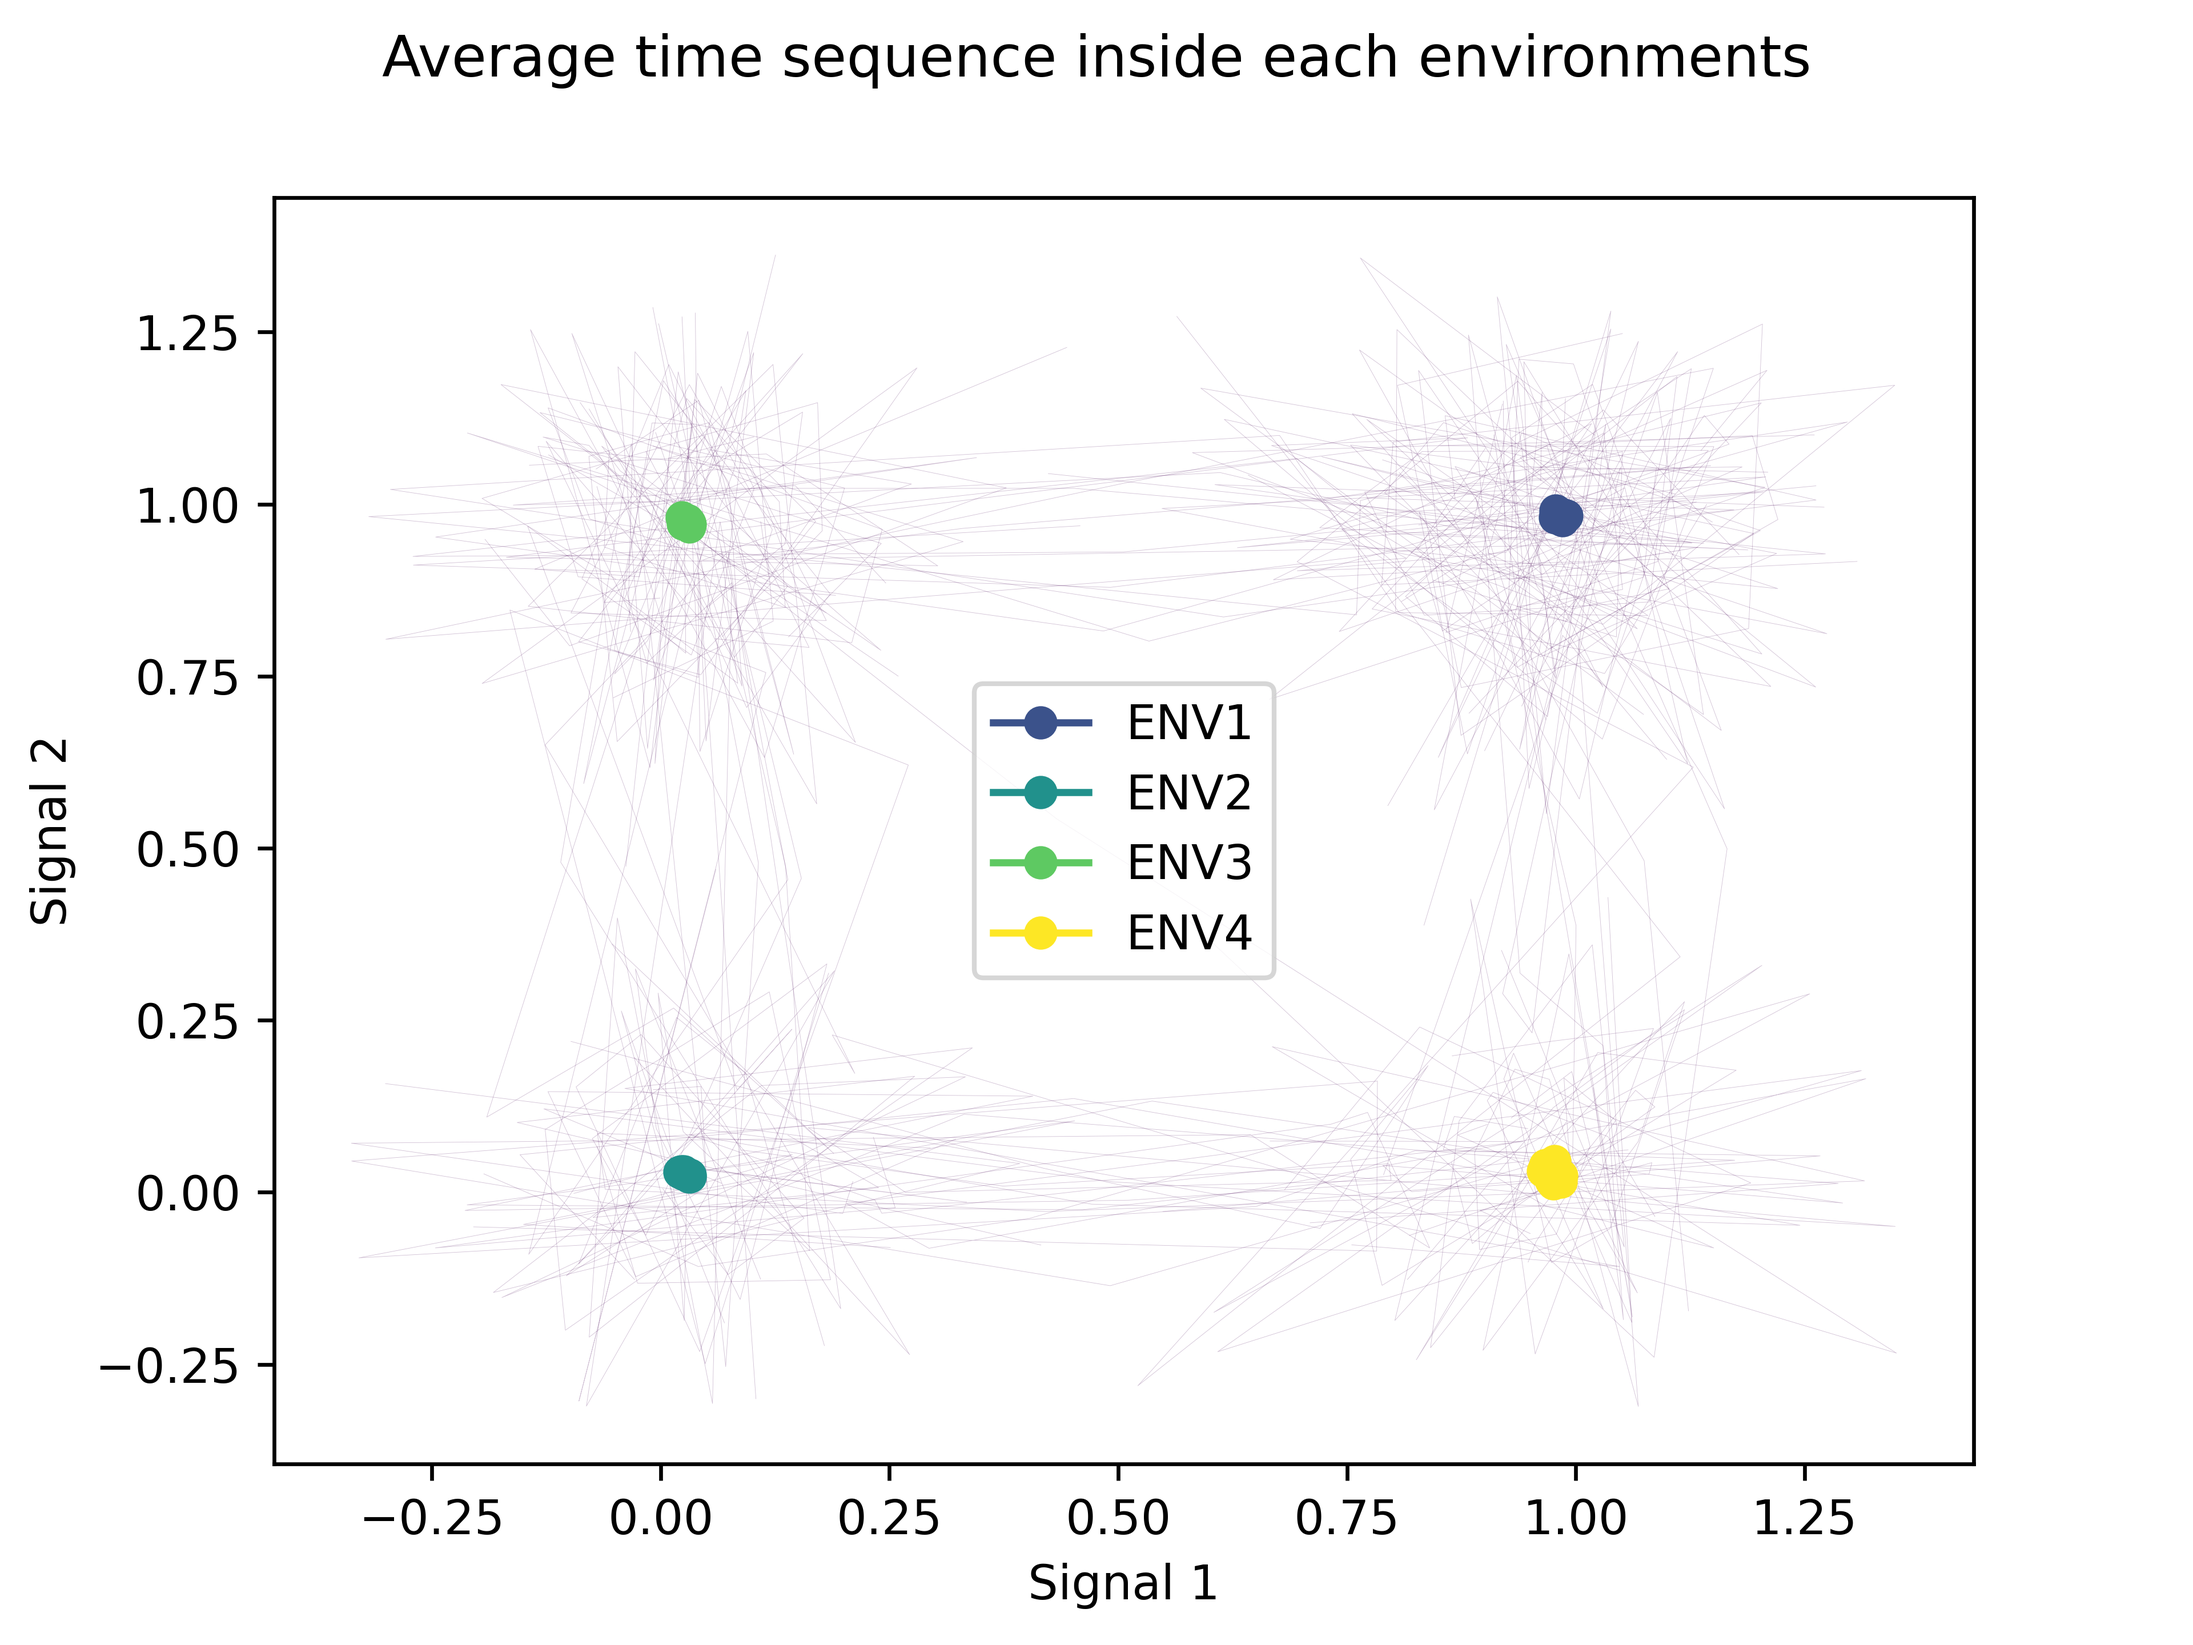
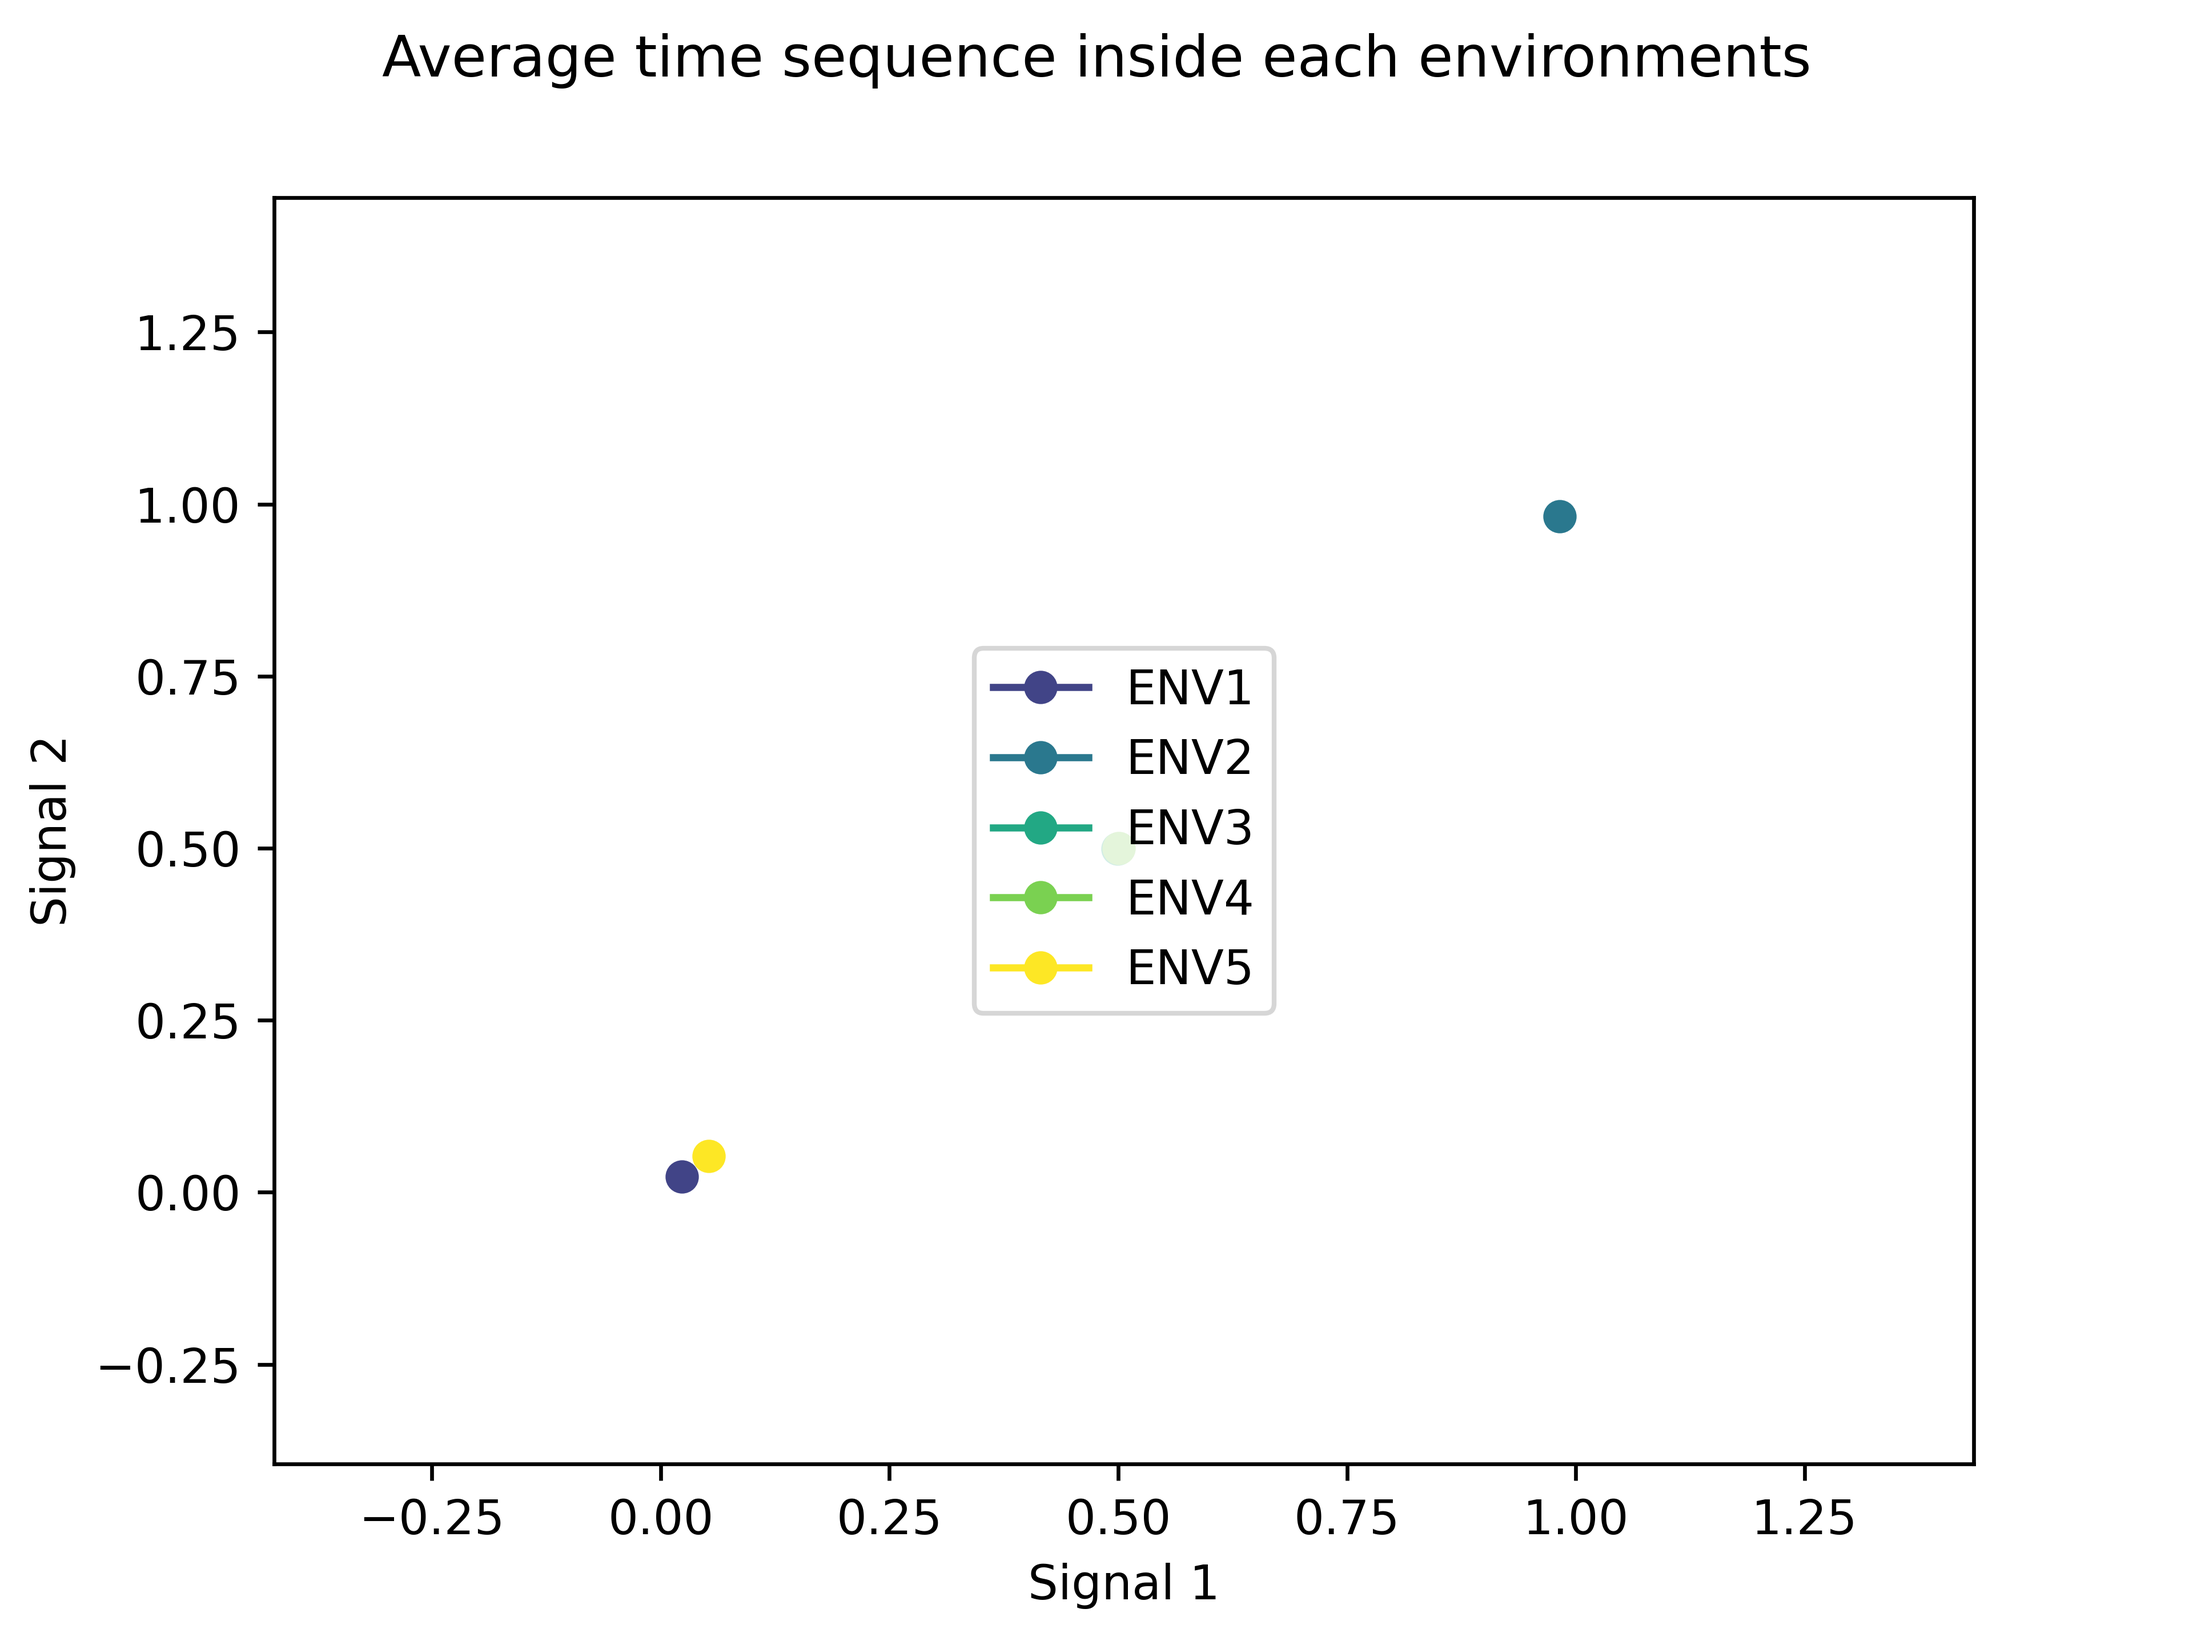
Examples updated; setting nos = 3.0 by default.

diff --git a/examples/example_script_multi.py b/examples/example_script_multi.py
@@ -25,13 +25,13 @@ path_to_input = "onion_example_files/data/multivariate_time-series.npy"
 
 ### Load the input data - it's an array of shape
 ### (n_dims, n_particles, n_frames)
-input_data = np.load(path_to_input)
-n_dims, n_particles, n_frames = input_data.shape
+input_data = np.load(path_to_input).transpose(1, 2, 0)
+n_particles, n_frames, n_dims = input_data.shape
 
 ### CLUSTERING WITH A SINGLE TIME RESOLUTION ###
 ### Chose the time resolution --> the length of the windows in which the
 ### time-series will be divided
-delta_t = 10
+delta_t = 20
 bins = 25  # For mutlivariate clustering, setting BINS is often important
 
 ### onion_multi() returns the list of states and the label for each
@@ -42,7 +42,7 @@ state_list, labels = onion_multi(input_data, delta_t, bins=bins)
 output_path = Path("output_multi")
 plot_output_multi(output_path / "Fig1.png", input_data, state_list, labels)
 plot_one_trj_multi(output_path / "Fig2.png", 0, input_data, labels)
-plot_medoids_multi(output_path / "Fig3.png", input_data, labels)
+# plot_medoids_multi(output_path / "Fig3.png", input_data, labels)
 plot_state_populations(output_path / "Fig4.png", labels)
 plot_sankey(output_path / "Fig5.png", labels, [100, 200, 300, 400])
 
@@ -50,10 +50,10 @@ plot_sankey(output_path / "Fig5.png", labels, [100, 200, 300, 400])
 delta_t_list = np.geomspace(3, n_frames, 20, dtype=int)
 
 tra = np.zeros((delta_t_list.size, 3))  # List of number of states and
-# ENV0 population for each tau_window
-pop_list = []  # List of the states' population for each tau_window
+# ENV0 population for each delta_t
+pop_list = []  # List of the states' population for each delta_t
 
-for i, tau_window in enumerate(delta_t_list):
+for i, delta_t in enumerate(delta_t_list):
     state_list, labels = onion_multi(input_data, delta_t, bins=bins)
 
     list_pop = [state.perc for state in state_list]

diff --git a/src/tropea_clustering/_internal/onion_multi.py b/src/tropea_clustering/_internal/onion_multi.py
@@ -14,7 +14,7 @@ def onion_multi(
     X: NDArray[np.float64],
     delta_t: int,
     bins: str | int = "auto",
-    number_of_sigmas: float = 2.5,
+    number_of_sigmas: float = 3.0,
     max_area_overlap: float = 0.8,
 ) -> tuple[list[StateMulti], NDArray[np.int64]]:
     """
@@ -168,7 +168,7 @@ class OnionMulti:
         self,
         delta_t: int,
         bins: str | int = "auto",
-        number_of_sigmas: float = 2.5,
+        number_of_sigmas: float = 3.0,
         max_area_overlap: float = 0.8,
     ):
         self.delta_t = delta_t

diff --git a/src/tropea_clustering/_internal/onion_uni.py b/src/tropea_clustering/_internal/onion_uni.py
@@ -14,7 +14,7 @@ def onion_uni(
     X: NDArray[np.float64],
     delta_t: int,
     bins: str | int = "auto",
-    number_of_sigmas: float = 2.0,
+    number_of_sigmas: float = 3.0,
     max_area_overlap: float = 0.8,
 ) -> tuple[list[StateUni], NDArray[np.int64]]:
     """
@@ -157,7 +157,7 @@ class OnionUni:
         self,
         delta_t: int,
         bins: str | int = "auto",
-        number_of_sigmas: float = 2.0,
+        number_of_sigmas: float = 3.0,
         max_area_overlap: float = 0.8,
     ):
         self.delta_t = delta_t
